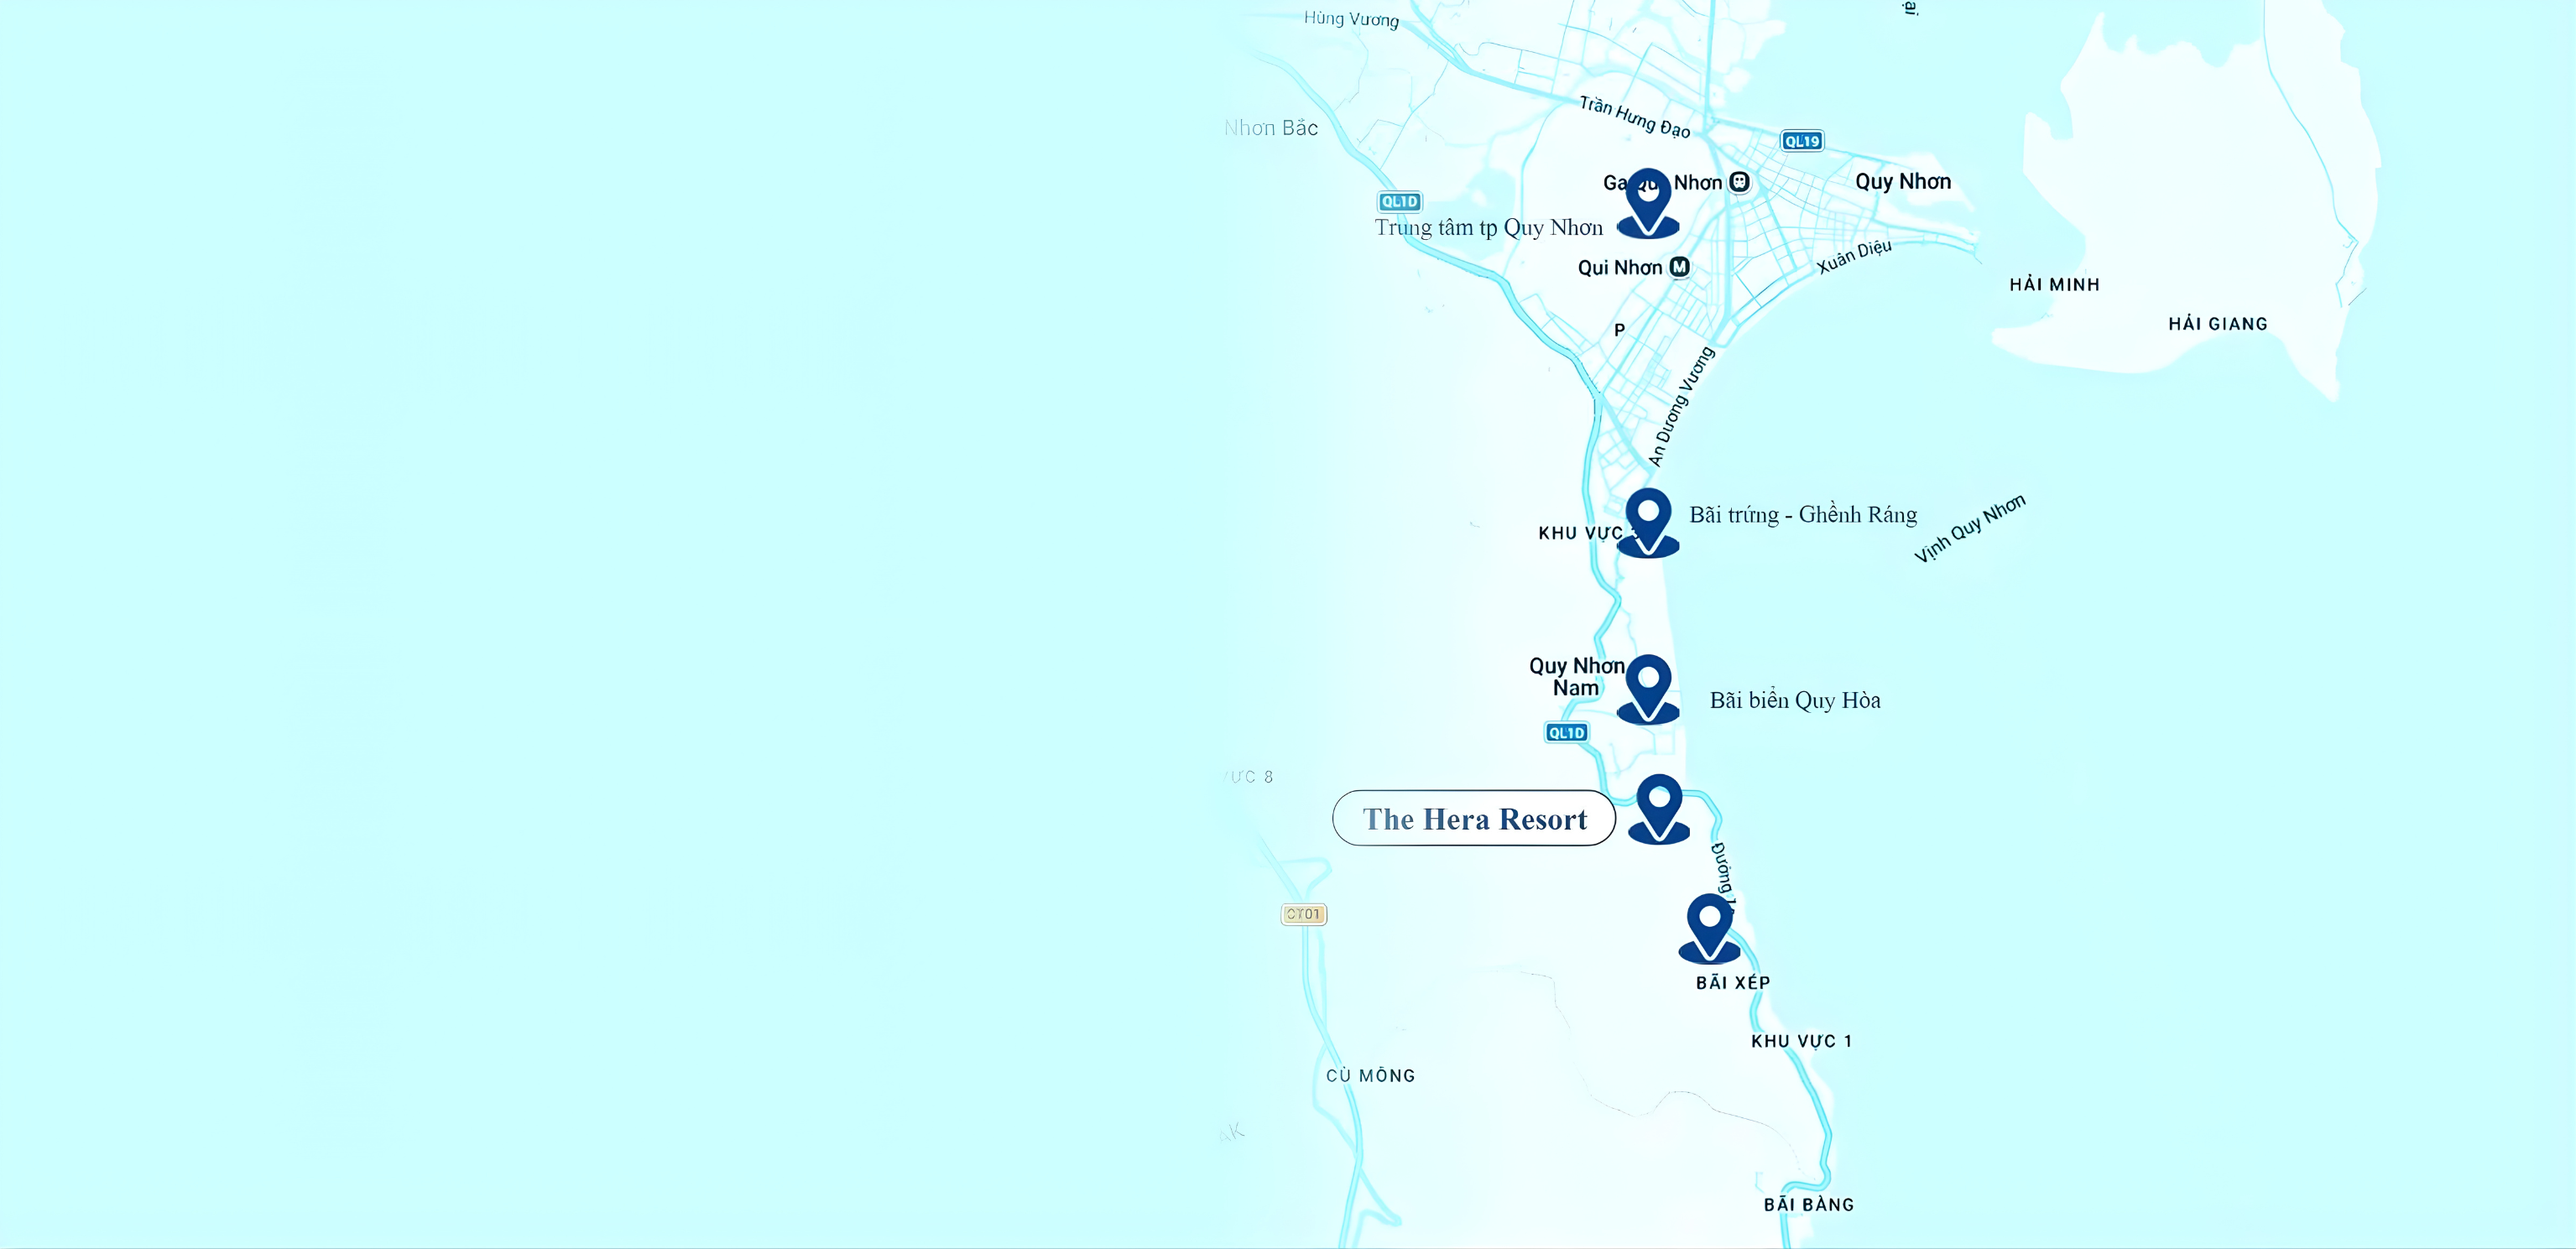
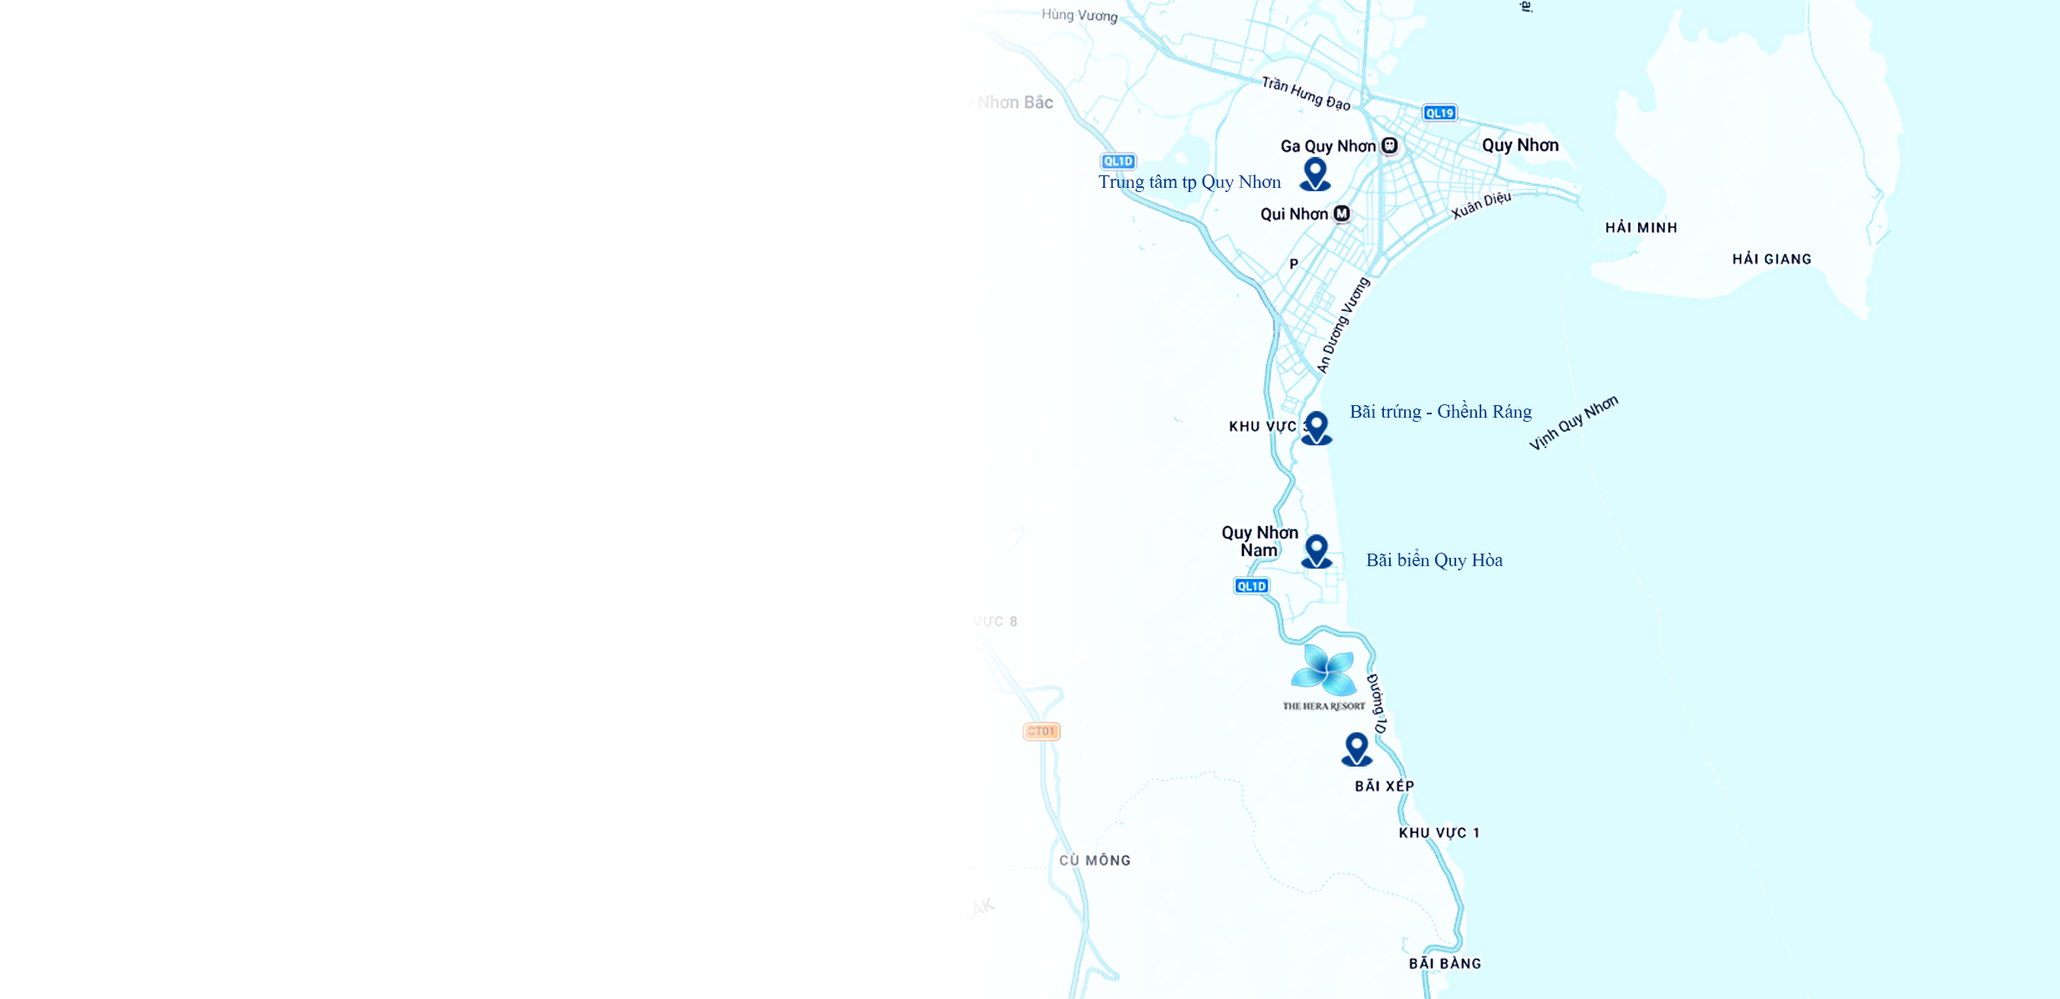
[UPDATE] update UI

diff --git a/app/[locale]/client/main.module.css b/app/[locale]/client/main.module.css
@@ -1,7 +1,8 @@
 .main {
   width: 100%;
   min-height: 100vh;
-  min-height: -webkit-fill-available; /* Safari specific fix */
+  min-height: -webkit-fill-available;
+  /* Safari specific fix */
   position: relative;
   background-color: #ffffff;
 }
@@ -10,11 +11,13 @@
   position: relative;
   width: 100%;
   height: 100vh;
-  height: 100dvh; /* Dynamic viewport height for Safari address bar */
+  height: 100dvh;
+  /* Dynamic viewport height for Safari address bar */
   overflow: hidden;
   display: flex;
   flex-direction: column;
-  justify-content: center; /* Solid flex centering for stability */
+  justify-content: center;
+  /* Solid flex centering for stability */
   align-items: center;
 }
 
@@ -39,7 +42,8 @@
 }
 
 .contentWrapper {
-  position: relative; /* Switch from absolute to relative for flex stability */
+  position: relative;
+  /* Switch from absolute to relative for flex stability */
   z-index: 10;
   display: flex;
   flex-direction: column;
@@ -64,6 +68,7 @@
   /* Ensure brand name stays on one line for common desktop widths */
   white-space: nowrap;
 }
+
 @media (max-width: 1200px) {
   .title {
     white-space: normal;
@@ -153,9 +158,9 @@
   }
 
   .contentWrapper {
-     /* No transform needed with flex centering */
-     transform: none;
-     padding-top: 60px;
+    /* No transform needed with flex centering */
+    transform: none;
+    padding-top: 60px;
   }
 
   .ctaBtn {
@@ -163,5 +168,49 @@
     font-size: 14px;
     /* Display on mobile to fill the empty space the user mentioned earlier */
     display: flex;
+  }
+
+  .floatingActions {
+    position: fixed;
+    right: 15px;
+    top: 60%;
+    transform: translateY(-50%);
+    display: flex;
+    flex-direction: column;
+    align-items: flex-end;
+    gap: 12px;
+    z-index: 1001;
+  }
+
+  .floatingSubscribeBtn {
+    width: 45px;
+    height: 45px;
+    background-color: #00b8dc;
+    color: white;
+    border: none;
+    border-radius: 50%;
+    display: flex;
+    align-items: center;
+    justify-content: center;
+    font-size: 20px;
+    box-shadow: 0 4px 15px rgba(0, 184, 220, 0.3);
+    cursor: pointer;
+    transition: transform 0.2s;
+  }
+
+  .floatingSubscribeBtn:active {
+    transform: scale(0.9);
+  }
+
+  .floatingLang {
+    /* Safe container for language switcher animation */
+    pointer-events: auto;
+  }
+}
+
+/* Hide floating actions on desktop */
+@media (min-width: 769px) {
+  .floatingActions {
+    display: none;
   }
 }

diff --git a/app/[locale]/client/(components)/infrastructure-connectivity-section.module.css b/app/[locale]/client/(components)/infrastructure-connectivity-section.module.css
@@ -3,7 +3,7 @@
     width: 100%;
     padding-top: calc(100 / 1440 * var(--width-container, 1440px));
     overflow: hidden;
-    background-color: #ccffff;
+    background-color: #ffffff;
 }
 
 .mapBackground {
@@ -76,7 +76,7 @@
 .carouselWrapper {
     width: 100%;
     /* Pull up so card 06-08 centers are at map border */
-    margin-top: calc(-160 / 1440 * var(--width-container, 1440px));
+    margin-top: calc(-50 / 1440 * var(--width-container, 1440px));
     position: relative;
     z-index: 2;
 }
@@ -202,11 +202,64 @@
 
 @media (max-width: 768px) {
     .section {
-        padding: 40px 0;
+        padding: 60px 0 40px;
+        padding-top: 80px;
+        /* Account for fixed header */
+        display: flex;
+        flex-direction: column;
+    }
+
+    .mapBackground {
+        position: relative;
+        width: 100%;
+        height: auto;
+        aspect-ratio: 1113 / 788;
+        margin-top: 30px;
+        order: 2;
+        /* Move map below text */
+    }
+
+    .container {
+        padding: 0 20px;
+        order: 1;
+        /* Keep text on top */
+    }
+
+    .topContent {
+        flex-direction: column;
+        margin-bottom: 0;
+    }
+
+    .textSide {
+        width: 100%;
+        font-size: 1.1rem;
+    }
+
+    .carouselWrapper {
+        margin-top: 30px;
+        order: 3;
+        /* Carousel at the bottom */
+    }
+
+    .carouselCard {
+        width: 280px;
+        height: 220px;
+    }
+
+    .cardContent {
+        padding: 20px;
     }
 
     .timeValue {
-        font-size: 60px;
+        font-size: 48px;
+    }
+
+    .timeUnit {
+        font-size: 14px;
+    }
+
+    .itemTitle {
+        font-size: 12px;
     }
 }
 

diff --git a/app/[locale]/client/main.tsx b/app/[locale]/client/main.tsx
@@ -17,6 +17,8 @@ import OutstandingArchitectureSection from './(components)/outstanding-architect
 import ScrollReveal from './(common)/ScrollReveal';
 import { useTranslations } from 'next-intl';
 import { HOME_KEYS } from '@/constants/localeKeys';
+import LanguageSwitcher from './(components)/language-switcher';
+import { FileTextOutlined } from '@ant-design/icons';
 import { getAllIntroduceImages, filterImagesByType } from '@/api/introduceImageApiService';
 import { IntroduceImage, IntroduceImageType } from '@/models/introduce-image';
 
@@ -85,6 +87,20 @@ export default function Main() {
           >
             {t(HOME_KEYS.HOME_BTN_SUBSCRIBE_LABEL)}
           </button>
+        </div>
+
+        {/* MOBILE FLOATING ACTIONS - Positioned below title */}
+        <div className={styles.floatingActions}>
+          <button
+            className={styles.floatingSubscribeBtn}
+            onClick={() => setIsPopupOpen(true)}
+            aria-label={t(HOME_KEYS.HOME_BTN_SUBSCRIBE_LABEL)}
+          >
+            <FileTextOutlined />
+          </button>
+          <div className={styles.floatingLang}>
+            <LanguageSwitcher isSticky={true} />
+          </div>
         </div>
       </section>
 

diff --git a/app/[locale]/client/(components)/header.module.css b/app/[locale]/client/(components)/header.module.css
@@ -306,7 +306,8 @@
   z-index: 10;
   list-style: none;
   margin: 0;
-  padding-top: 120px; /* Thêm khoảng an toàn phía trên để không bao giờ chạm nút đóng absolute */
+  padding-top: 120px;
+  /* Thêm khoảng an toàn phía trên để không bao giờ chạm nút đóng absolute */
 }
 
 @media (max-width: 1024px) {
@@ -436,6 +437,7 @@
   .logoSection {
     order: 1;
     justify-content: flex-start;
+    min-width: unset;
   }
 
   .logo {
@@ -447,20 +449,7 @@
   /* Sticky Actions on the RIGHT edge */
   /* Floating Actions Positioned to stay away from Menu/Notch */
   .rightSection {
-    position: fixed;
-    right: 20px;
-    bottom: 30px;
-    /* Shifted to Bottom-Right for modern iOS UX */
-    top: auto;
-    transform: none;
-    display: flex !important;
-    flex-direction: column;
-    align-items: flex-end;
-    gap: 12px;
-    z-index: 1001;
-    margin: 0;
-    padding-right: 0px;
-    padding-bottom: env(safe-area-inset-bottom, 10px);
+    display: none !important;
   }
 
   .subscribeBtnMobile {
@@ -567,6 +556,10 @@
     font-size: 18px;
     margin-bottom: 25px;
     font-weight: 600;
+  }
+
+  .logoContainer {
+    width: 130px;
   }
 }
 

diff --git a/app/[locale]/client/(components)/infrastructure-connectivity-section.tsx b/app/[locale]/client/(components)/infrastructure-connectivity-section.tsx
@@ -85,8 +85,6 @@ const InfrastructureConnectivitySection = () => {
           autoplaySpeed={4000}
           speed={10000}
           cssEase="linear"
-          pauseOnHover={true}
-          pauseOnFocus={false}
           variableWidth={true}
           responsive={[
             {
